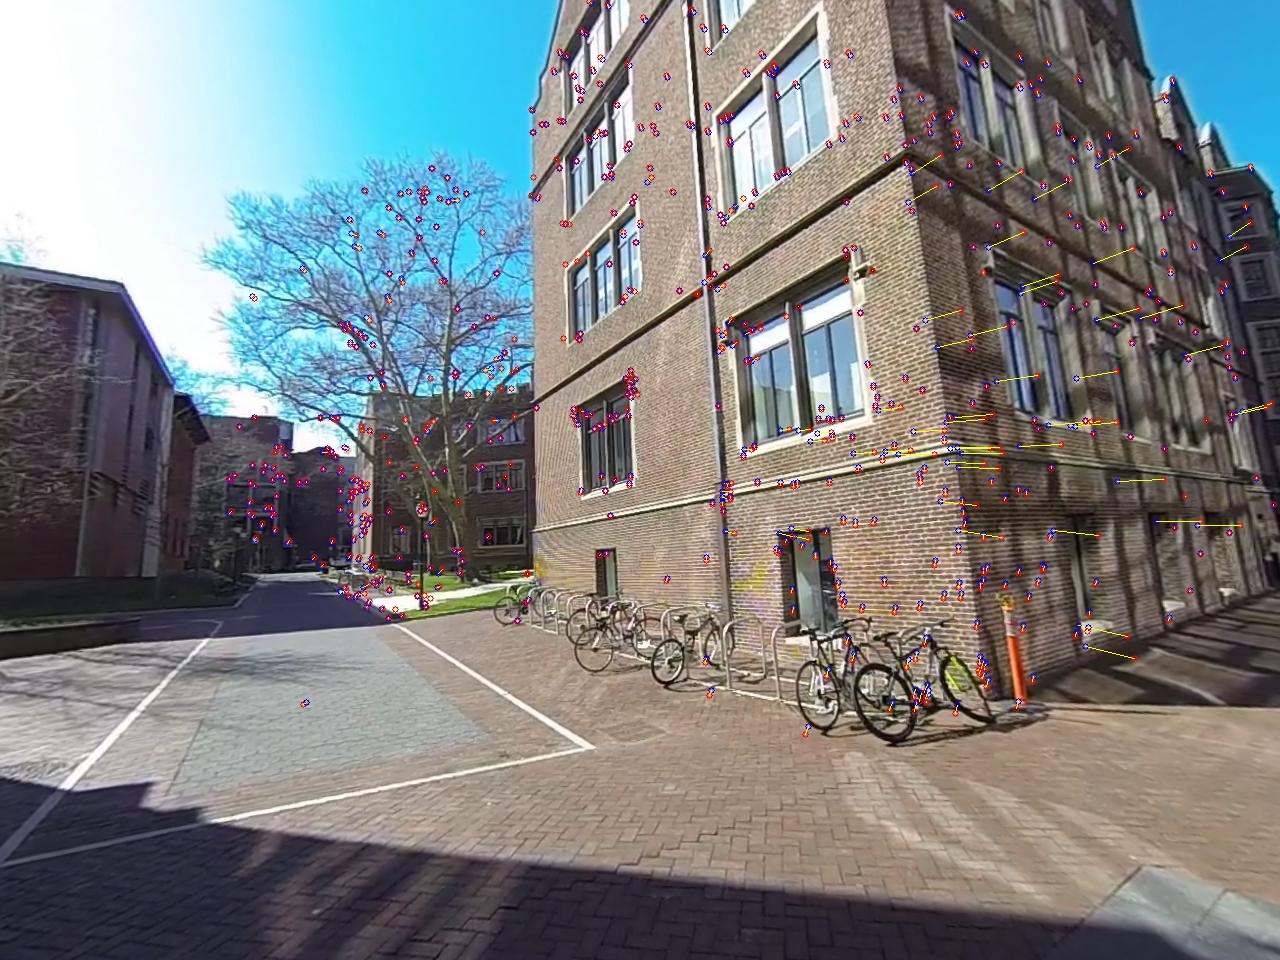
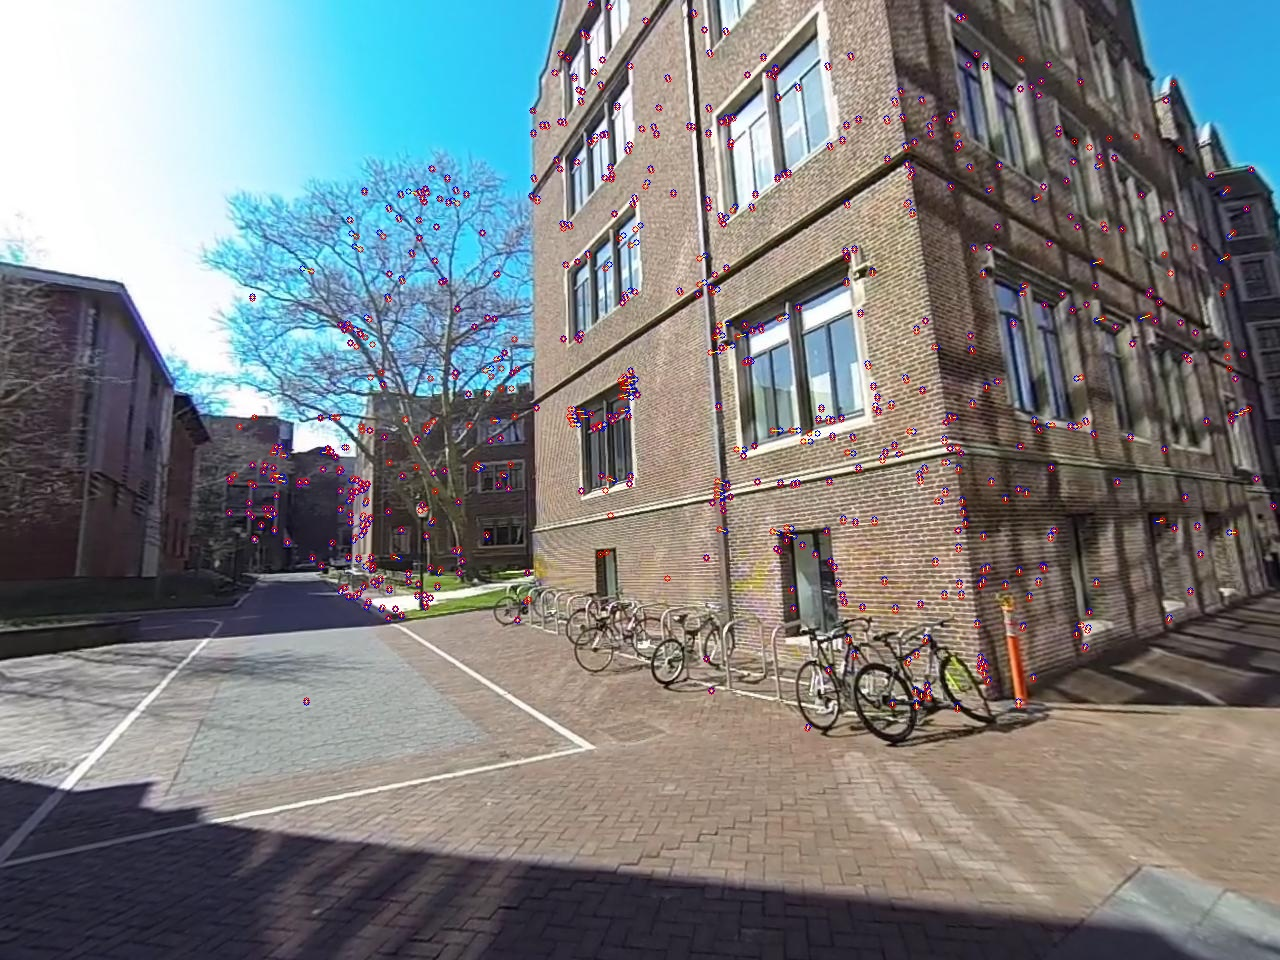
wrote BA code

diff --git a/Code/Part1/Wrapper.py b/Code/Part1/Wrapper.py
@@ -24,6 +24,7 @@ from NonlinearTriangulation import nonlinear_triang
 from LinearPnP import linear_pnp
 from PnPRANSAC import pnp_ransac, compute_reproj_err_all
 from NonlinearPnP import nonlinear_pnp
+from BundleAdjustment import bundle_adjustment
 from Misc.utils import PlotFuncs
 from Misc.utils import MiscFuncs
 
@@ -128,6 +129,9 @@ def main():
     # create a dict consisting of 2d-3d correspondences of all images
     corresp_2d_3d = {}
 
+    # X_set stores all the 3d points
+    X_set = []
+
     # first we need to get inliers of image i(3-6) wrt previously estimated camera pose so that we
     # match the 2D image point with the already calculated 3D point
     img1_2d_3d = max_inliers_locs[:, 0:2]
@@ -140,31 +144,23 @@ def main():
     img2_2d_3d = np.hstack((img2_2d_3d, X_list_refined))
     corresp_2d_3d[2] = img2_2d_3d
 
-    # err_all = []
-    # for p in img2_2d_3d:
-    #
-    #     x, y = p[0], p[1]
-    #     X = p[2:].reshape((3, 1))
-    #     X = np.append(X, 1)
-    #
-    #     proj = np.dot(M2, X)
-    #     x_p = proj[0]/proj[2]
-    #     y_p = proj[1]/proj[2]
-    #
-    #     err = (x-x_p)**2 + (y-y_p)**2
-    #     err_all.append(err)
-    #
-    # err_all = np.array(err_all)
-    # print(np.mean(err_all))
+    # add the 3d points to X_set
+    X_set.append(X_list_refined)
+    X_set = np.array(X_set).reshape((X_list_refined.shape))
+
+    # map is used for BA. It stores image points and indices of corresp 3d points
+    map_2d_3d = {}
+    map_2d_3d[1] = zip(corresp_2d_3d[1][:, 0:2], range(X_set.shape[0]))
+    map_2d_3d[2] = zip(corresp_2d_3d[2][:, 0:2], range(X_set.shape[0]))
 
     # estimate pose for the remaining cams
     for _, nums in enumerate(image_nums):
 
         ref_img_num = nums[0]
         new_img_num = nums[1]
-        img_pair = str(nums[0])+str(nums[1])
+        img_pair = str(ref_img_num)+str(new_img_num)
         file_name = "ransac"+img_pair+".txt"
-        # file_name = "matches"+img_pair+".txt"
+
         print("using correspondences from file " + file_name)
 
         # get the 2d-3d correspondences for the 1st ref image
@@ -198,12 +194,12 @@ def main():
 
         # find the 2d-3d mapping for the remaining image points in the new image by doing triangulation
         X_new = linear_triagulation(M_ref, C_new, R_new, K, remaining_2d_2d)
-        X_new_ref = nonlinear_triang(M_ref, M_new, X_new, remaining_2d_2d, K)
-        X_new_ref = X_new_ref.reshape((remaining_2d_2d.shape[0], 3))
+        X_new = nonlinear_triang(M_ref, M_new, X_new, remaining_2d_2d, K)
+        X_new = X_new.reshape((remaining_2d_2d.shape[0], 3))
 
         remaining_2d_3d = remaining_2d_2d[:, 2:4]
         print("points before adding remaining corresp - {}".format(new_img_2d_3d.shape))
-        new_img_2d_3d = np.vstack((new_img_2d_3d, np.hstack((remaining_2d_3d, X_new_ref))))
+        new_img_2d_3d = np.vstack((new_img_2d_3d, np.hstack((remaining_2d_3d, X_new))))
         print("points after adding remaining corresp - {}".format(new_img_2d_3d.shape))
         print("......................................")
 
@@ -211,29 +207,30 @@ def main():
         corresp_2d_3d[new_img_num] = new_img_2d_3d
         pose_set[new_img_num] = np.hstack((R_new, C_new))
 
-        # use the 2d-3d correspondences to find the pose of the new cam
-        # R_new, C_new = linear_pnp(new_img_2d_3d, K)
-        # C_new = C_new.reshape((3, 1))
-        # poses[new_img_num] = np.hstack((R_new, C_new))
-
-        # plot all the poses
-
-
         # print reprojection error after non-linear pnp
         pts_img_all = new_img_2d_3d[:, 0:2]
         X_all = new_img_2d_3d[:, 2:]
-
         reproj_errors, pts_img_reproj_all = compute_reproj_err_all(pts_img_all, M_new, X_all, ret=True)
-
         mean_proj_error[new_img_num] = np.mean(reproj_errors)
 
         # plotting reprojected points
         plot_funcs.plot_reproj_points(images[new_img_num-1], new_img_num, np.float32(pts_img_all), np.float32(pts_img_reproj_all), save=True)
 
-    print("plotting all the camera poses and their respective correspondences\n")
-    plot_funcs.plot_camera_poses(pose_set, corresp_2d_3d, save=True)
-    print(mean_proj_error)
-    print(pose_set)
+        # do bundle adjustment
+        map_2d_3d[new_img_num] = zip(pts_img_all, range(X_set.shape[0], X_set.shape[0] + X_all.shape[0]))
+        X_set = np.append(X_set, X_all, axis=0)
+
+        print("doing Bundle Adjustment --> ")
+        pose_set_opt, X_set = bundle_adjustment(pose_set, X_set, map_2d_3d, K)
+        print("outputs of BA")
+        print(pose_set_opt)
+        print(X_set.shape)
+
+
+    # print("plotting all the camera poses and their respective correspondences\n")
+    # plot_funcs.plot_camera_poses(pose_set, corresp_2d_3d, save=True)
+    # print(mean_proj_error)
+    # print(pose_set)
 
 
 

diff --git a/Code/Part1/BundleAdjustment.py b/Code/Part1/BundleAdjustment.py
@@ -1,0 +1,88 @@
+import numpy as np
+from scipy.optimize import least_squares
+from NonlinearPnP import rot2Quat, quat2Rot
+from Misc.utils import MiscFuncs
+
+
+def compute_reproj_err(img_pts_2d, param_cam, world_pts_3d):
+
+    misc_funcs = MiscFuncs()
+    ones = np.ones((world_pts_3d.shape[0], 1))
+    world_pts_3d = np.hstack((world_pts_3d, ones))
+
+    pt_img_proj = np.empty((0, 2), dtype=np.float32)
+
+    for i, p in enumerate(world_pts_3d):
+        R = quat2Rot(param_cam[i, :4])
+        C = param_cam[i, 4:]
+        M = misc_funcs.get_projection_matrix(K, R, C)
+        p = np.reshape((4, 1))
+        proj_pt = np.dot(M, p)
+        proj_pt = proj_pt/proj_pt[2]
+        pt_img_proj = np.append(pt_img_proj,[proj_pt[0], proj_pt[1]],axis=0)
+
+    reproj_err = img_pts_2d - pt_img_proj
+    reproj_err = reproj_err**2
+    reproj_err = np.sum(reproj_err, axis=1)
+
+    return reproj_err
+
+
+def get_bund_adj_params(pose_set, X_world_all, map_2d_3d):
+
+    # defining the params, 2d points, 3d points' indices
+    x0 = np.empty(0, dtype=np.float32)
+    indices_3d_pts = np.empty(0, dtype=int)
+    img_pts_2d = np.empty((0, 2), dtype=np.float32)
+    indices_cam = np.empty(0, dtype=int)
+
+    # for each camera pose(1-6)
+    for k in pose_set.keys():
+
+        # convert to quaternion
+        Q = rot2Quat(pose_set[k][:, 0:3])
+        C = pose_set[k][:, 3]
+        # append the parameters
+        x0 = np.append(x0, Q.reshape(-1), axis=0)
+        x0 = np.append(x0, C, axis=0)
+
+        for p in map_2d_3d[k]:
+            print(p[1])
+            indices_3d_pts = np.append(indices_3d_pts, p[1], axis=0)
+            img_pts_2d = np.append(img_pts_2d, p[0], axis=0)
+            indices_cam = np.append(indices_cam, k-1, axis=0)
+
+    x0 = np.append(x0, X_world_all.flatten(), axis=0)
+    n_cam = np.shape(indices_cam)[0]
+    n_3d = X_world_all.shape[0]
+
+    return n_cam, n_3d, indices_3d_pts, img_pts_2d, indices_cam, x0
+
+
+def optimize(x0, n_cam, n_3d, indices_3d_pts, img_pts_2d, indices_cam, K):
+
+    param_cam = x0[:n_cam*7].reshape((n_cam, 7))
+    world_pts_3d = x0[n_cam*7:].reshape((n_3d, 3))
+
+    reproj_err = compute_reproj_err_all(K, img_pts_2d, param_cam[indices_cam], world_pts_3d[indices_3d_pts])
+
+    return reproj_err
+
+
+def bundle_adjustment(pose_set, X_world_all, map_2d_3d, K):
+
+    n_cam, n_3d, indices_3d_pts, img_pts_2d, indices_cam, x0 = get_bund_adj_params(pose_set, X_world_all, map_2d_3d)
+
+    result = least_squares(fun=optimize, x0=x0, ftol=1e-3, args=(n_cam, n_3d, indices_3d_pts, img_pts_2d, indices_cam, K))
+
+    param_cam = result.x[:n_cam*7].reshape((n_cam, 7))
+    X_world_all_opt = result.x[n_cam*7:].reshape((n_3d, 3))
+    pose_set_opt = {}
+    i = 0
+    for cp in param_cam:
+        R = quat2Rot(param_cam[:4])
+        C = param_cam[4:].reshape((3, 1))
+        pose_set_opt[i] = np.hstack((R, C))
+        i += 1
+
+    return pose_set_opt, X_world_all_opt
